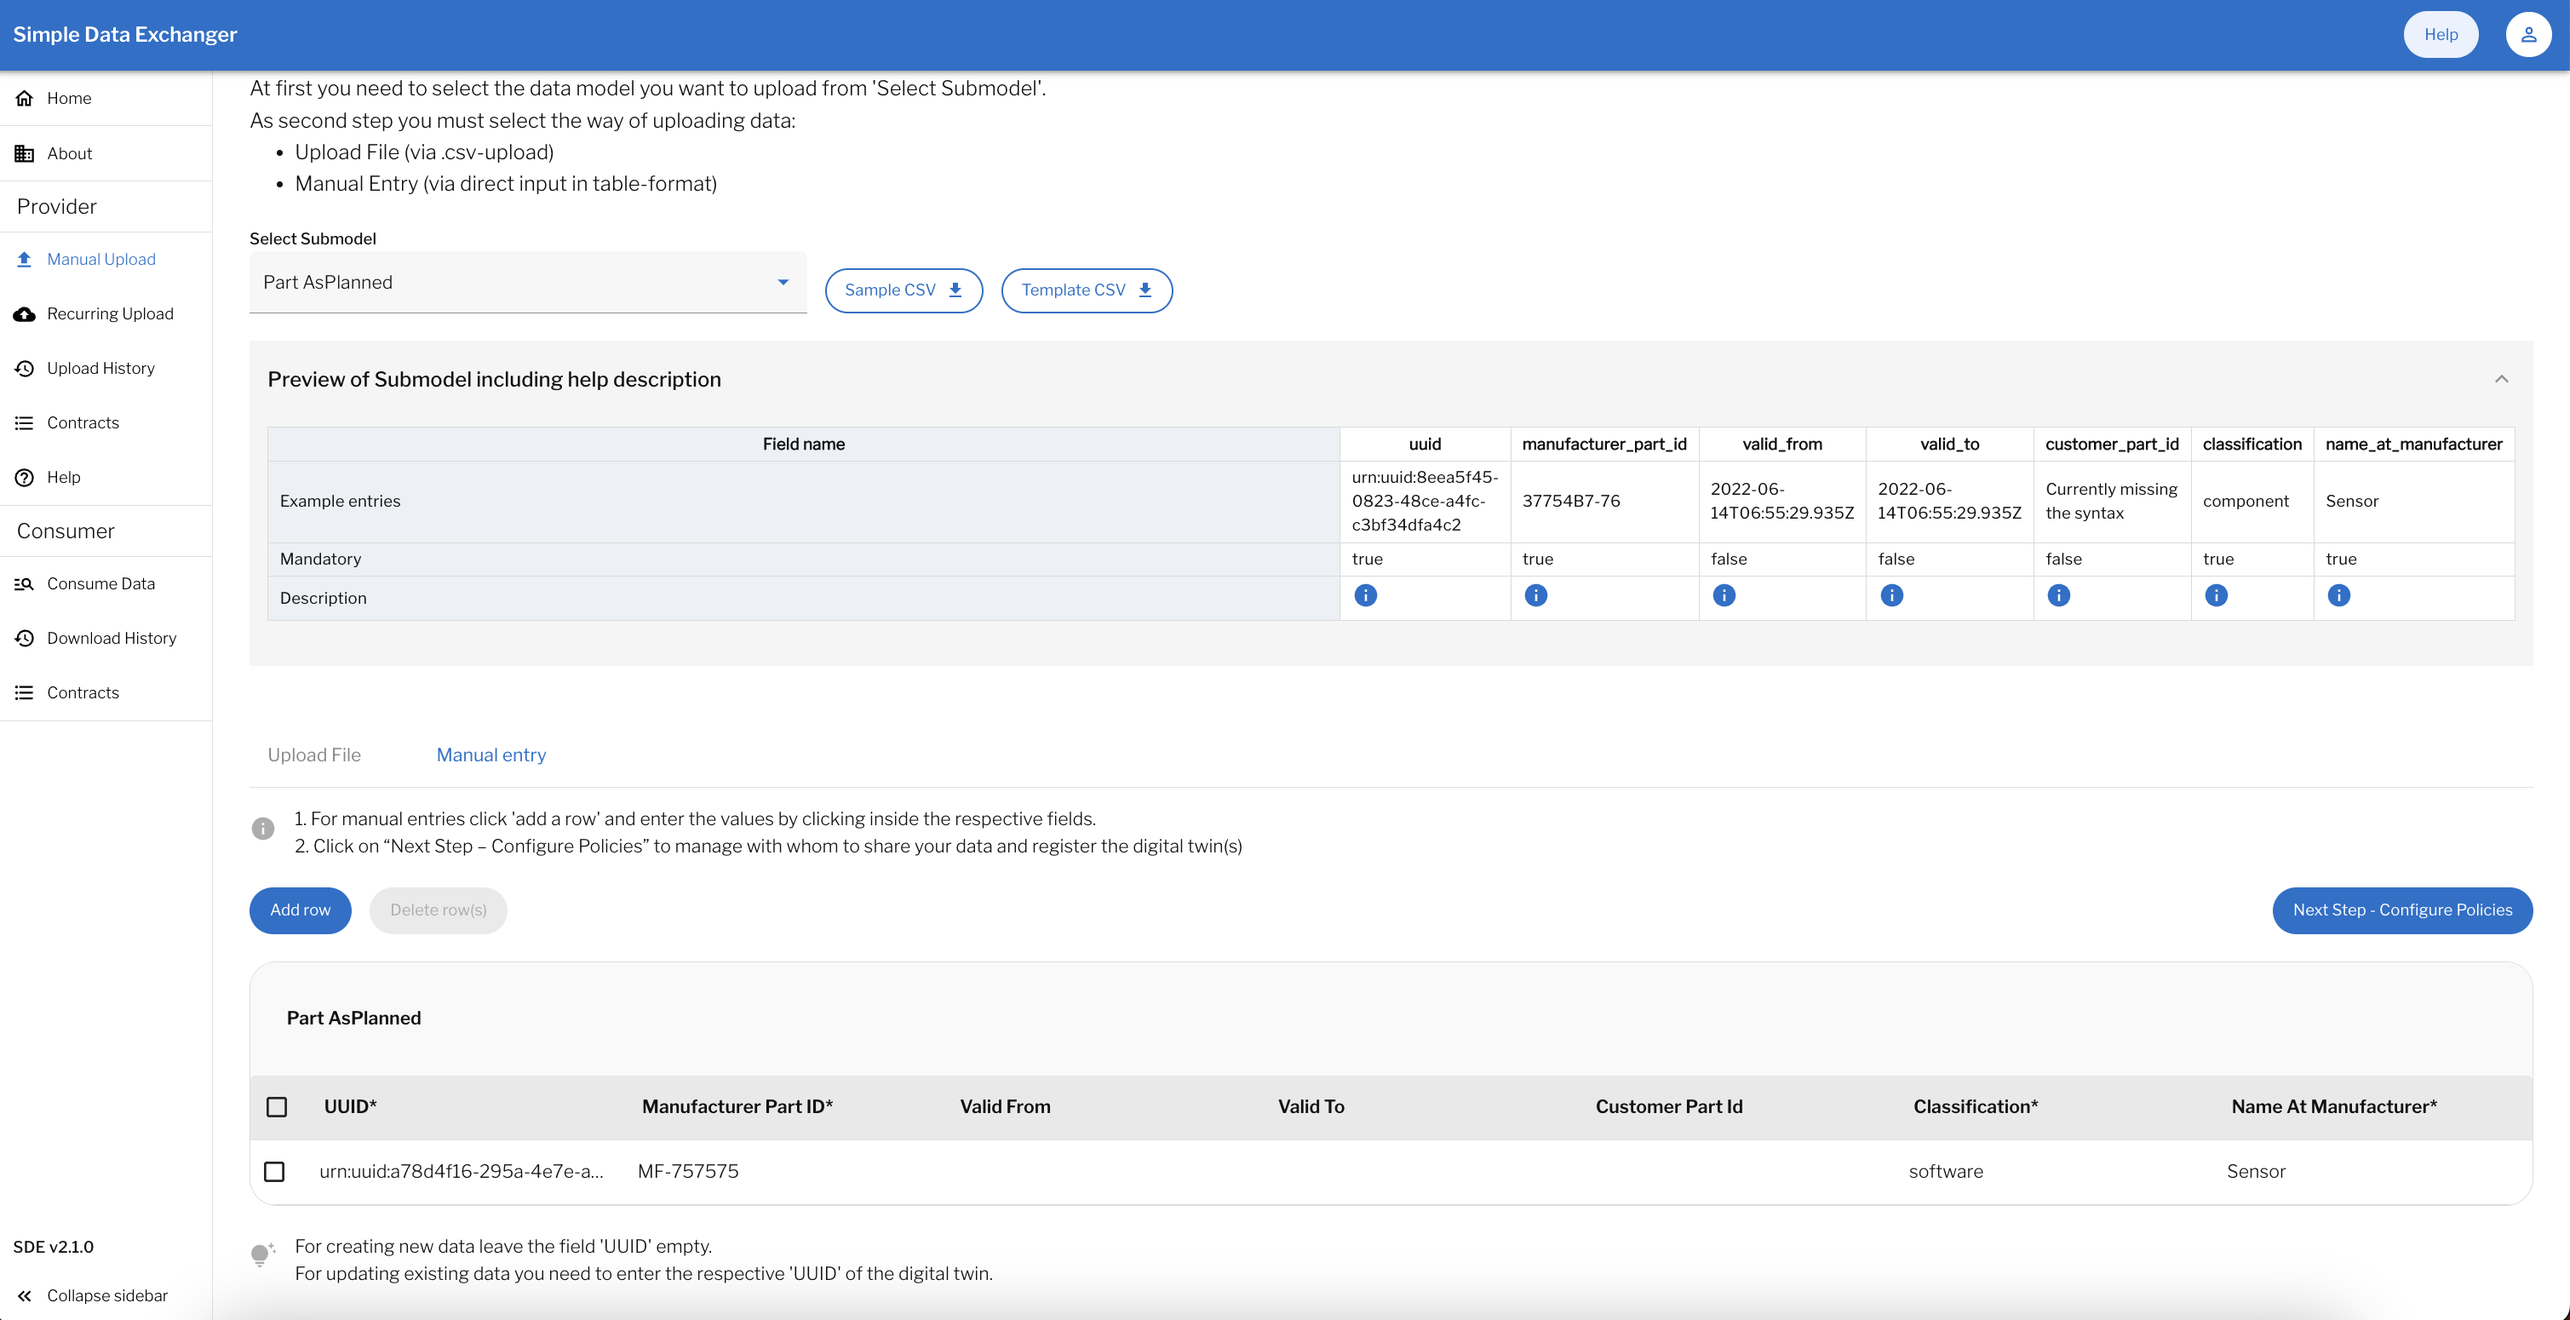
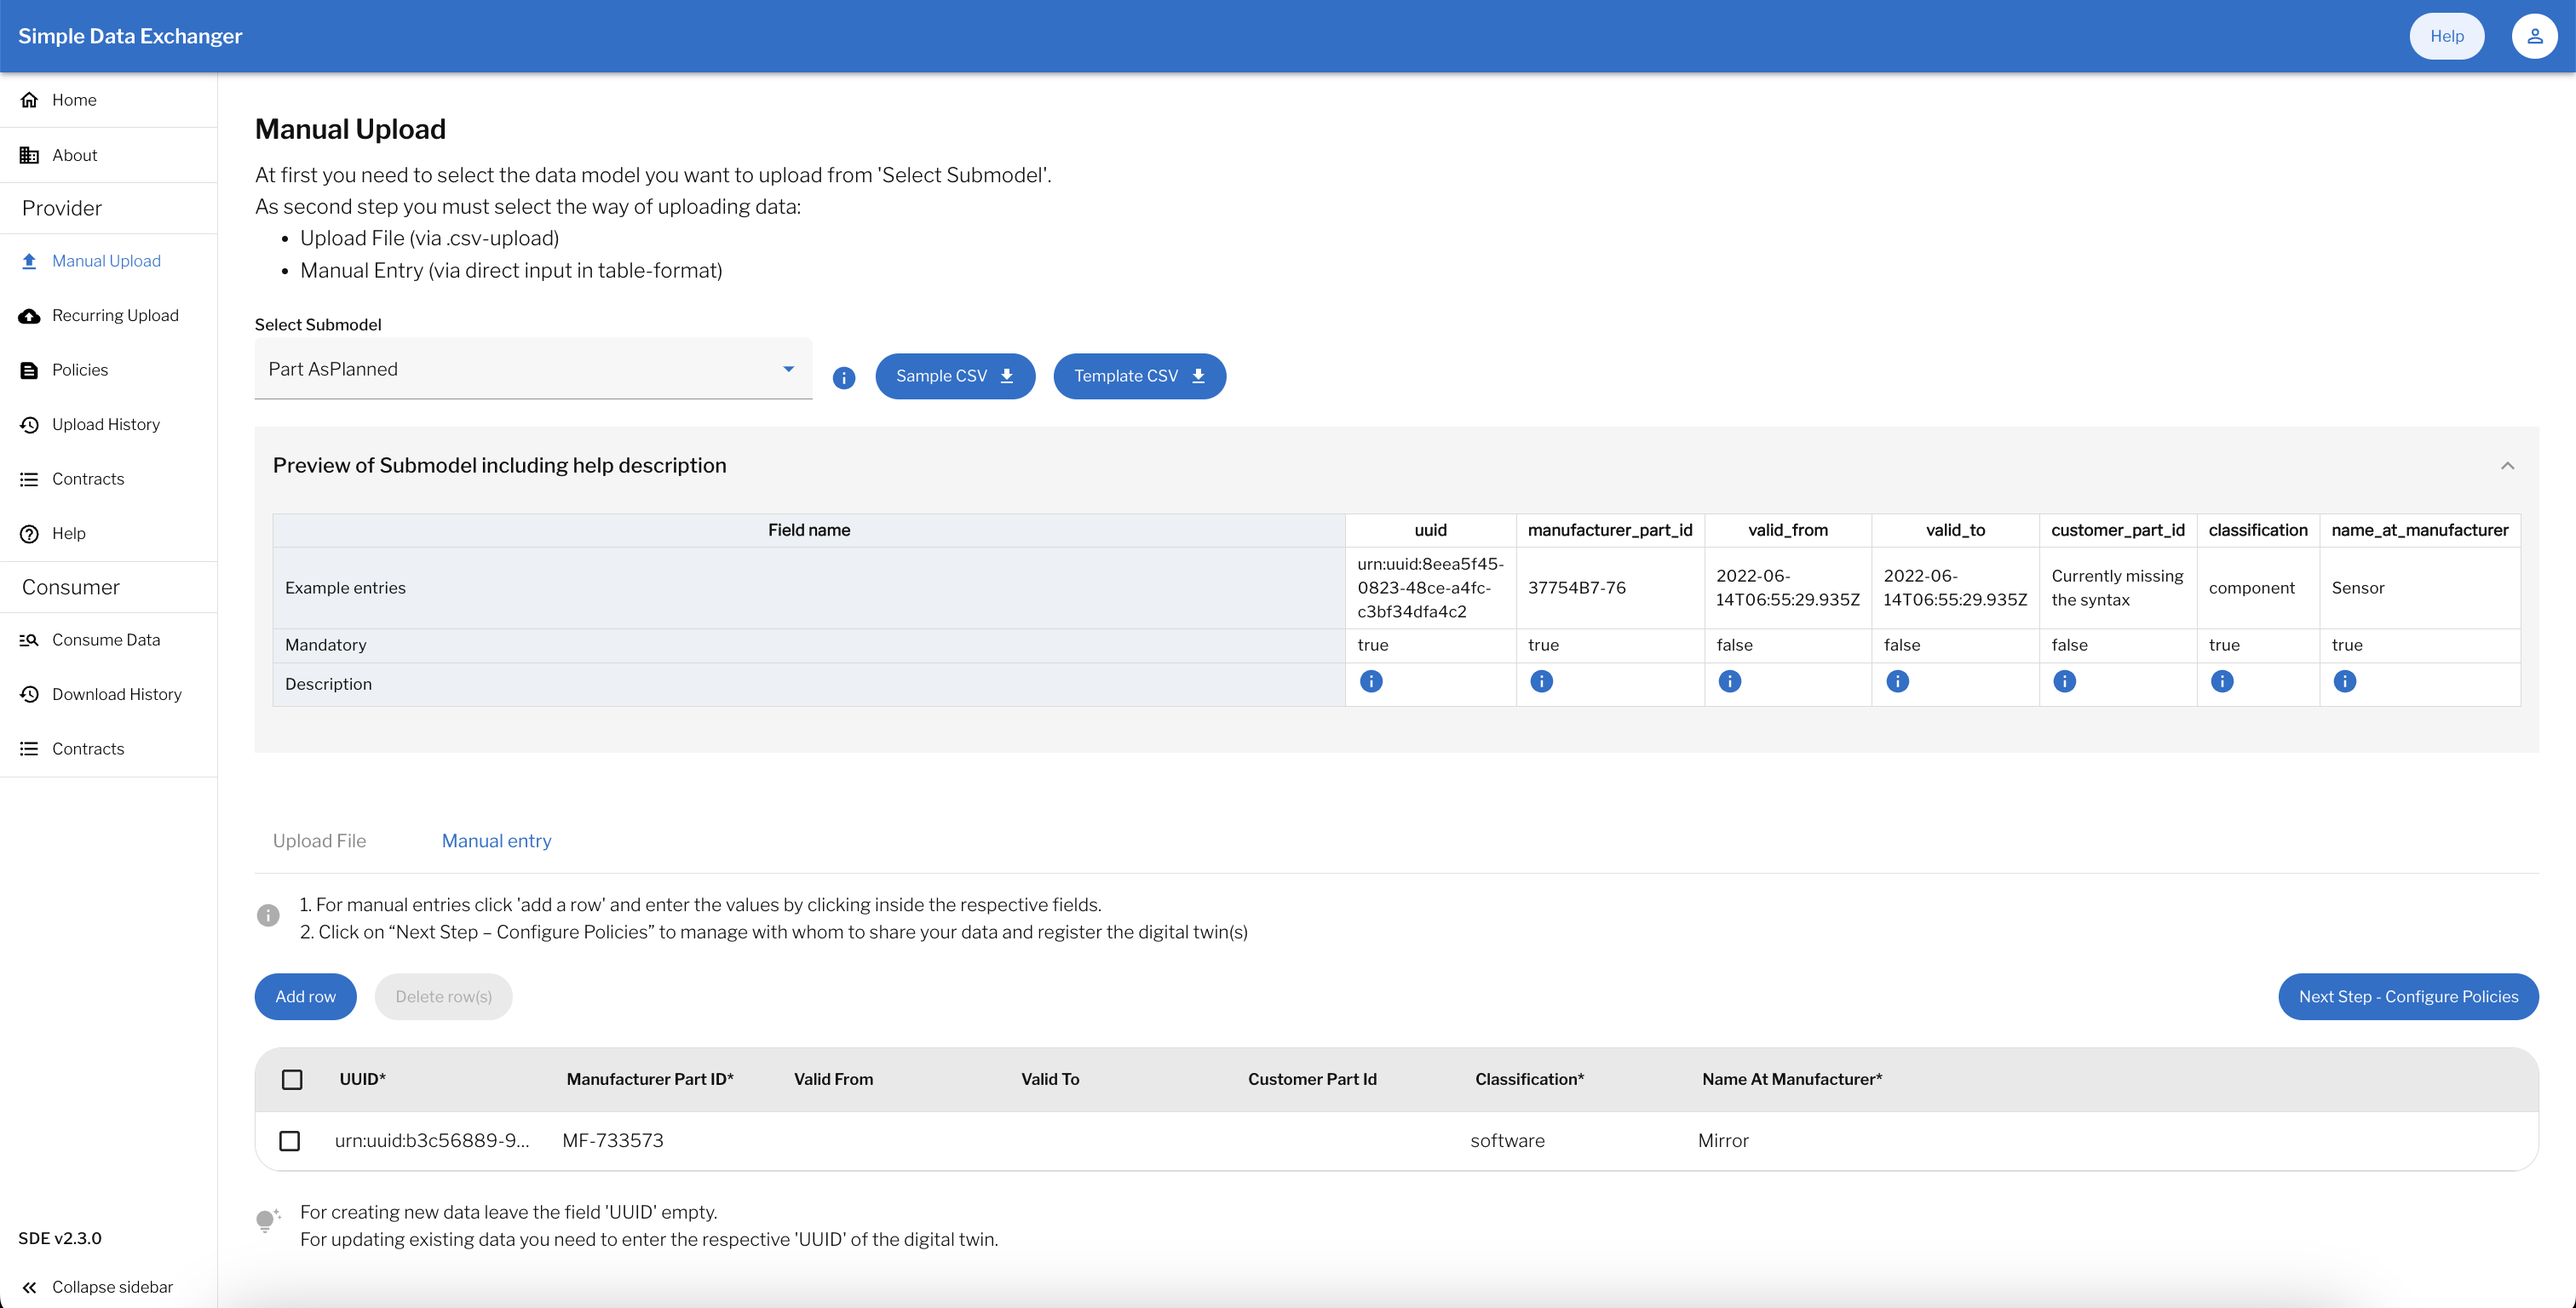
SDE Documentation Updated.

diff --git a/docs/user-guide/README.md b/docs/user-guide/README.md
@@ -34,6 +34,7 @@ This work is licensed under the [Apache-2.0](https://www.apache.org/licenses/LIC
         - [Single Level Usage As Built](#single-level-usage-as-built)
         - [Product Carbon Footprint](#product-carbon-footprint)
     - [Recurring Upload](#recurring-upload)
+    - [Policies](#policies)
     - [Upload history](#upload-history)
     - [Contracts](#provider-contracts)
     - [Help](#help)
@@ -92,6 +93,7 @@ On the left side menu, it is possible to navigate the Simple Data Exchanger appl
 
 - Manual Upload
 - Recurring Upload
+- Policies
 - Upload History
 - Contracts
 - Help
@@ -210,15 +212,37 @@ Then you need to configure Access and Usage policies by clicking on "Next Step -
 
 <img src="images/sde-recurring-upload.png" height="60%" width="60%" />
 
-You can utilize the SDE for automated CSV file uploads. You must use the SFTP interface to transfer your CSV files to cloud storage. The SDE will then upload the CSV files according to the parameters.
+You can utilize the SDE for automated CSV file uploads. You must use the SFTP/Minio interface to transfer your CSV files to cloud storage. The SDE will then upload the CSV files according to the parameters.
 
-- Policies
 - Schedules
-- SFTP Configuration
+
+<img src="images/schedules.png" height="60%" width="60%" />
+
+- Storage Media
+
+<img src="images/storage.png" height="60%" width="60%" />
+
 - Email Configuration
+
+<img src="images/email-configuration.png" height="60%" width="60%" />
+
 - Settings
 
+<img src="images/settings.png" height="60%" width="60%" />
+
 User can change the above parameters accordingly.
+
+## Policies
+
+<img src="images/policies.png" height="60%" width="60%" />
+
+On this page, you need to define the policy to be used for your 'Recurring Upload' process. The policy name should be included in your upload file, and it must be unique.
+
+After clicking on the add policy button, Add Policy  dialog will be shown where we need to configure Policy Name, Access and Usage policies.
+
+<img src="images/add-policy.png" height="60%" width="60%" />
+
+Once configuring both the policies, we need to click on "SUBMIT" button to finish and create policy. This is the process of creating new policy through SDE application. User can use this policy while uploading the file in SFTP/Minio storage.
 
 ## Upload history
 
@@ -234,8 +258,8 @@ The table has the following columns:
 - Updated(number of Successfully Updated items)
 - Deleted(number of Successfully Deleted items)
 - Failed(number of failed items)
-- Status
 - Start Date
+- Status
 
 User can delete and download any uploaded data offer by clicking on the respective action icon present at the end of each row.
 The delete icon will only be visible if the Number of Deleted Items count is 0.
@@ -265,7 +289,7 @@ The table includes below columns:
 
 <img src="images/sde-help-page.png" height="60%" width="60%" />
 
-This dynamic help page provides the submodel informations of selected use case in the home page. If no use case selected, it will show all available submodels. User can see the the order of the fields and details of each field by hovering the info icon in each row. User can download the sample csv and csv template for any submodels as well from this page.
+This dynamic help page provides the submodel informations of selected use case in the home page. If no use case selected, it will show all available submodels. User can see the the order of the fields and details of each field by hovering the info icon in each row. User can download the sample csv and csv template for any submodels as well from this page. User can use quick link to navigate on any sub model. 
 
 # **Consumer**
 
@@ -294,7 +318,7 @@ Zip file will be downloaded with respected data offer sub-model csv file with ac
 User can also subscribe to multiple data offers at a time by ticking or checking the checkbox in front of the data offers and clicking on the button "Subscribe and download" present at top right section of the data offers table.
 Please note that, user can only subscribe to multiple data offers if the offers have exact similar usage policies configured.
 After clicking on Subscribe and download button and agreeing to the terms and conditions, the contract agreements establishment process will start for all of the selected data offers for the subscription.
-ip file will be downloaded with respected data offers sub-models csv file with actual data which was used to create the data offers.
+Zip file will be downloaded with respected data offers sub-models csv file with actual data which was used to create the data offers.
 
 ## Download History
 
